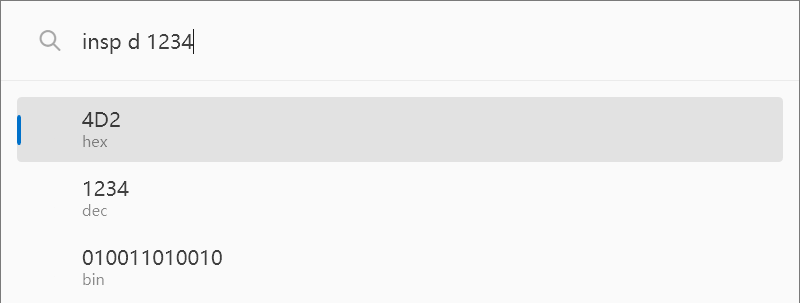
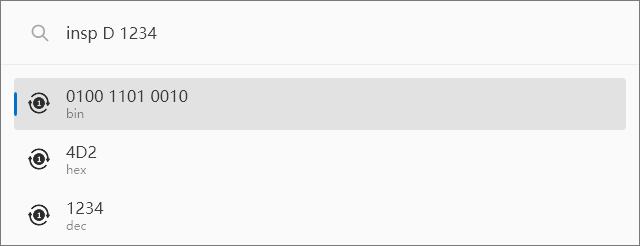
Update README

diff --git a/README_EN.md b/README_EN.md
@@ -1,6 +1,6 @@
 # PowerHexInspector
 
-A simple PowerToys Run plugin.
+A simple [PowerToys Run](https://learn.microsoft.com/en-us/windows/powertoys/run) plugin.
 
 Provides functionality to convert numbers to different bases.
 
@@ -26,6 +26,8 @@ The base can be one of the following values:
 
 ![Example](./Images/examples/ep1.png)
 
+Clicking or pressing `Enter` will copy the conversion result to the clipboard.
+
 ## Installation
 Download the latest release, extract it, and place the `PowerHexInspector` folder into the `%LOCALAPPDATA%\Microsoft\PowerToys\PowerToys Run\Plugins` directory. Then, restart PowerToys.
 
@@ -33,7 +35,7 @@ Download the latest release, extract it, and place the `PowerHexInspector` folde
 This plugin is still in development and may have various unknown bugs and crashes.
 
 ## TODO !!!
-- [ ] Support formatted output (spacing, casing, etc.)
-- [ ] Add icon
+- [x] Support formatted output (spacing, casing, etc.)
+- [x] Add icon
 - [ ] Support big-endian
 - [ ] Support settings for different bit lengths (currently fixed at 64-bit)

diff --git a/README.md b/README.md
@@ -1,8 +1,10 @@
 # PowerHexInspector
 
-一个简单的powertoys run插件。
+一个简单的[powertoys run](https://learn.microsoft.com/en-us/windows/powertoys/run)插件。
 
 提供将数字转化为其他进制的功能。
+
+[English Doc](./README_EN.md)
 
 ## 使用方法
 
@@ -26,6 +28,8 @@
 
 ![](./Images/examples/ep1.png)
 
+点击或按下`Enter`会将转换结果复制到剪贴板中。
+
 ## 安装
 下载最新的release，解压后将`PowerHexInspector`文件夹放入`%LOCALAPPDATA%\Microsoft\PowerToys\PowerToys Run\Plugins`文件夹中，然后重启powertoys即可。
 
@@ -33,7 +37,7 @@
 该插件还处于开发阶段，可能会有各种未知的bug和崩溃。
 
 ## TODO ！！！
-- [ ] 支持格式化输出（间隔，大小写等）
-- [ ] 添加图标
+- [x] 支持格式化输出（间隔，大小写等）
+- [x] 添加图标
 - [ ] 支持大端序
 - [ ] 支持对不同位数的设置（当前固定为64位）
